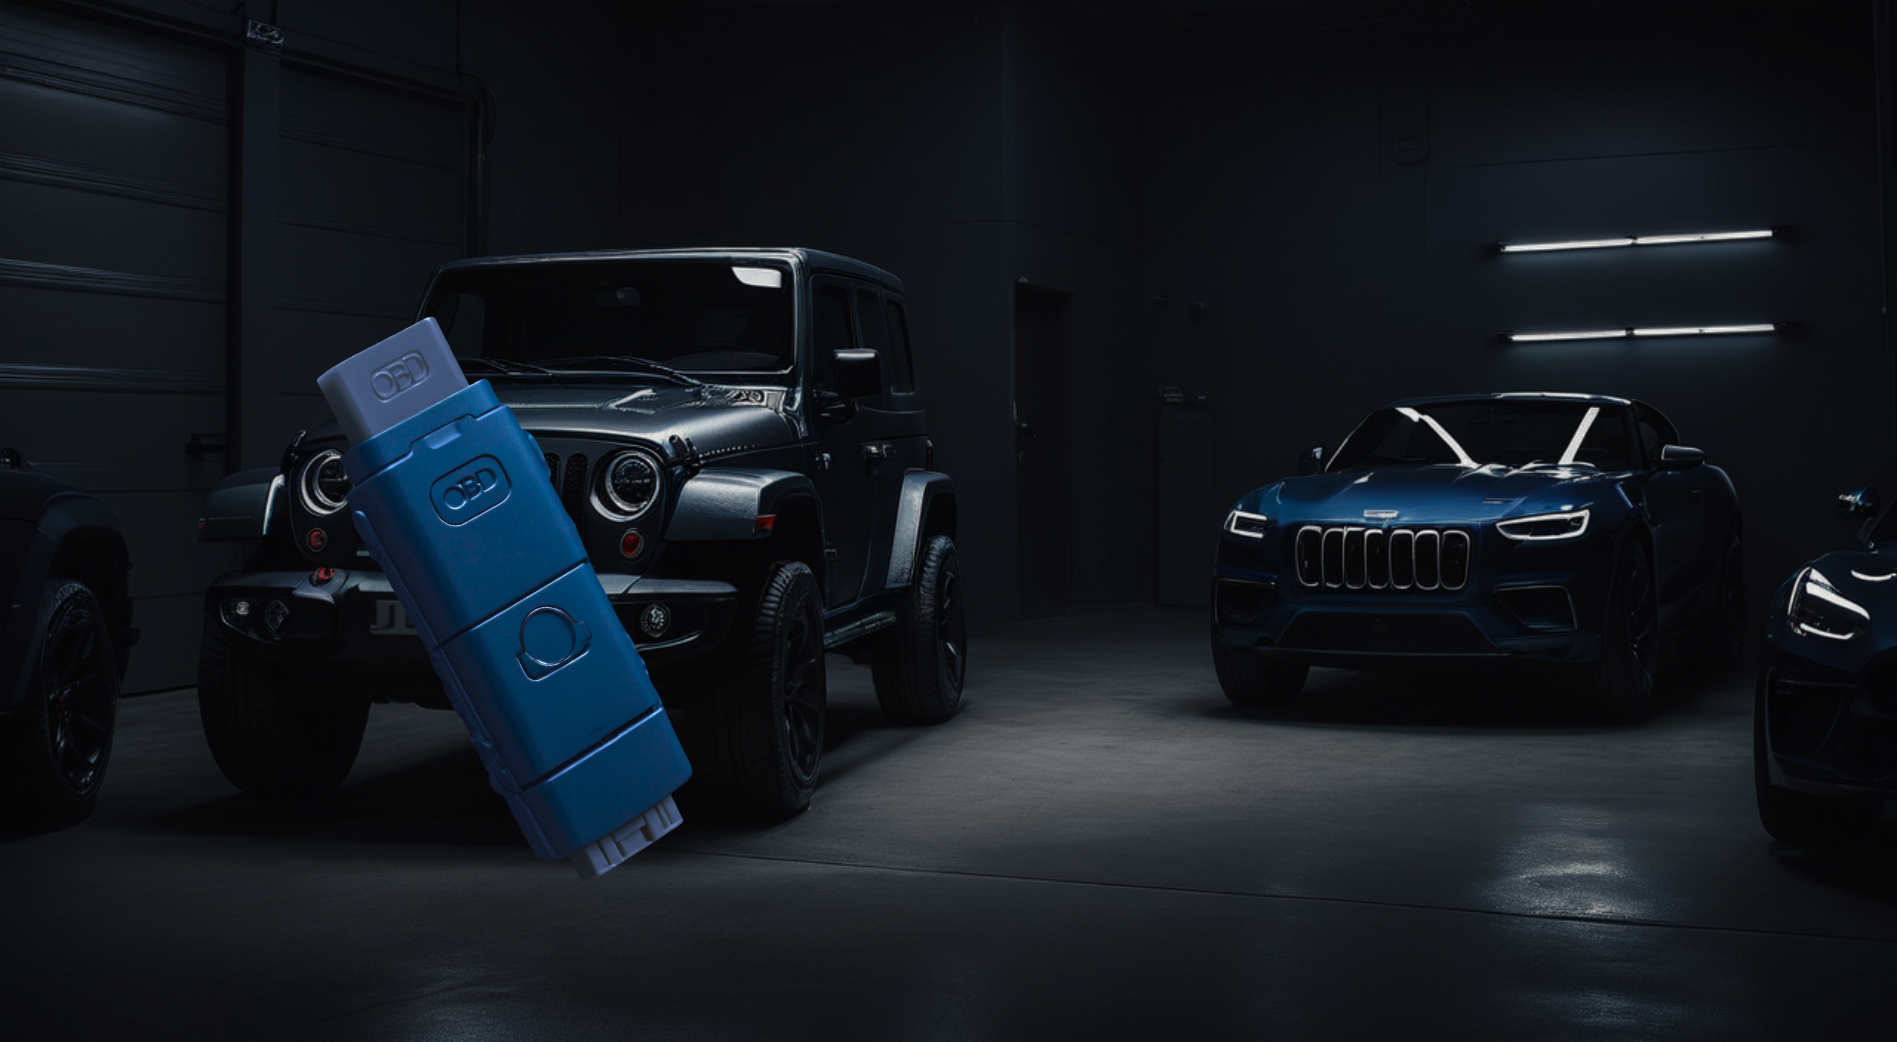
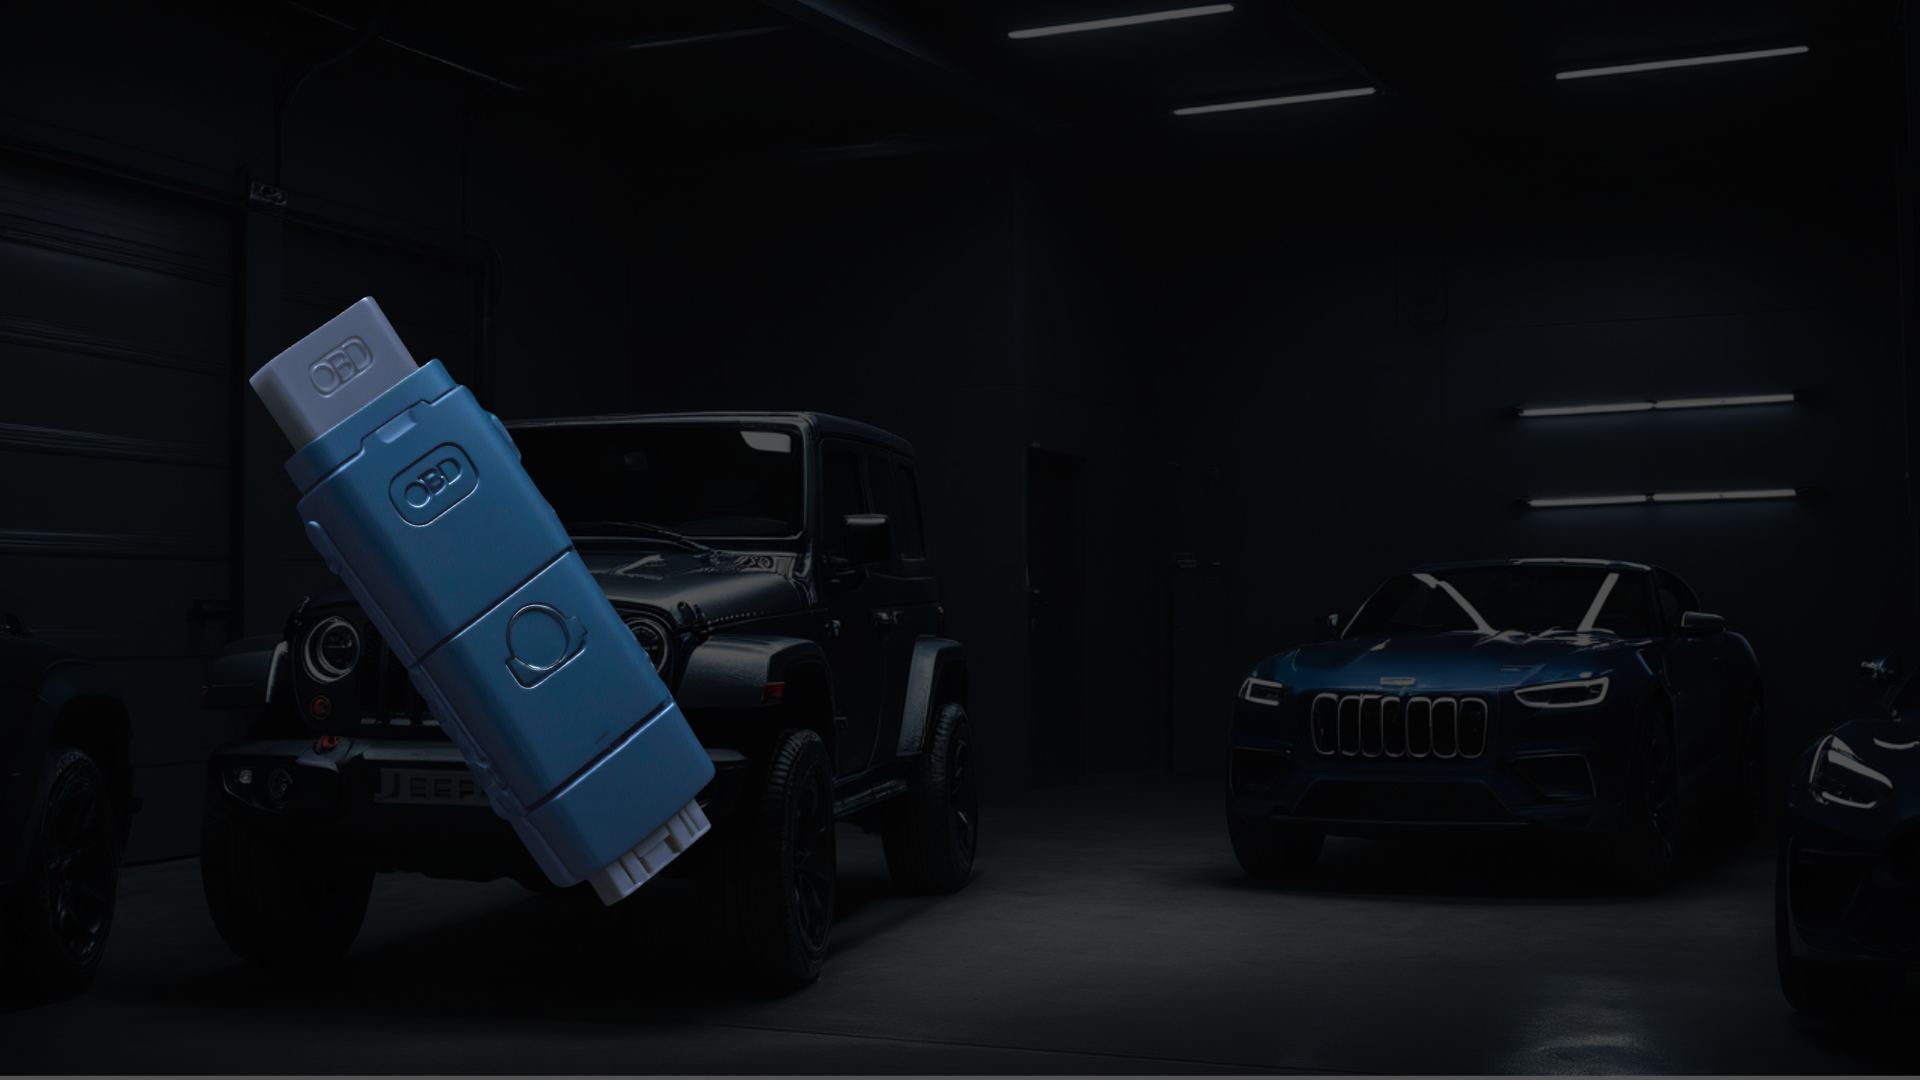
pg CarDiag Scanner finalizada + ajustes

diff --git a/css/styleSheets/2.styleIndex.css b/css/styleSheets/2.styleIndex.css
@@ -3,14 +3,15 @@
 
 body{
     background-image: url(../imagenSite/fundoHome.png);
-    background-repeat: no-repeat;
     background-size: 100%;
+    background-position: left;
 }
 #pHome{
     font-size: 58px;
     text-align: right;
     color: #b3c0ce;
     font-weight: 500;
+    text-shadow: #021c47 5px;
 }
 .paragrafo{
     width: 45%;
@@ -23,6 +24,7 @@ h3{
     color: #b3c0ce;
     font-weight: 350;
     text-align: center;
+    padding: 2px 10px;
 }
 .botaoSaibaMais{
     background-color: #021d47a4;
@@ -30,7 +32,7 @@ h3{
     padding: 10px 8px;
     border-radius: 20px;
     display: flex;
-    margin: 25% 45% 0;
+    margin: 20% 44.5% 0;
 }
 .botaoSaibaMais:hover{
     background-color: #021c47;

diff --git a/css/styleSheets/4.styleCarDiagScanner.css b/css/styleSheets/4.styleCarDiagScanner.css
@@ -1,0 +1,29 @@
+
+body{
+    background-image: url(../imagenSite/fundoCarDiagScanner.png);
+    background-size: 100%;
+    background-position: bottom;
+}
+.textoCDS{
+    display: flex;
+    flex-direction: column;
+    float: right;
+    width: 48%; 
+    padding: 5% 1% 3%;
+    text-align: right; 
+    margin-bottom: 5%;
+    margin-right: 5%;
+}
+.h3CDS {
+    background: linear-gradient(to right, #232728 0%, #806E65 100%);
+    background-clip: text;
+    color: transparent;
+    font-size: 40px;
+    font-weight: bold;
+    
+}
+.pCDS {
+    color: #b3c0ce; 
+    font-size: 42px;
+    font-weight: 350;
+}

diff --git a/paginas/2.CarDiagScanner.html b/paginas/2.CarDiagScanner.html
@@ -41,6 +41,12 @@
             </div>
         </nav>
         <!-- AQUI COMEÇA O CONTEÚDO ESPECÍFICO DA PÁGINA -->
+        <div class="contentCarDiagScanner">
+            <div class="textoCDS">
+                <h3 class="h3CDS">O CarDiag Scanner é como um médico para o seu carro.</h3>
+                <p class="pCDS">Conecte ao seu veículo e o deixe cuidar da saúde dele. Ele fica sempre de olho no seu automóvel, identificando problemas antes que se tornem grandes preocupações.</p>
+            </div>
+        </div>
 
     </div>
     <footer>

diff --git a/css/styleSheets/3.styleCarDiag.css b/css/styleSheets/3.styleCarDiag.css
@@ -20,6 +20,7 @@ body{
     display: flex;
     margin: 5% 5% 1%;
 }
+
 .h2CarDiag{
     font-size: 30px;
     text-decoration: none;
